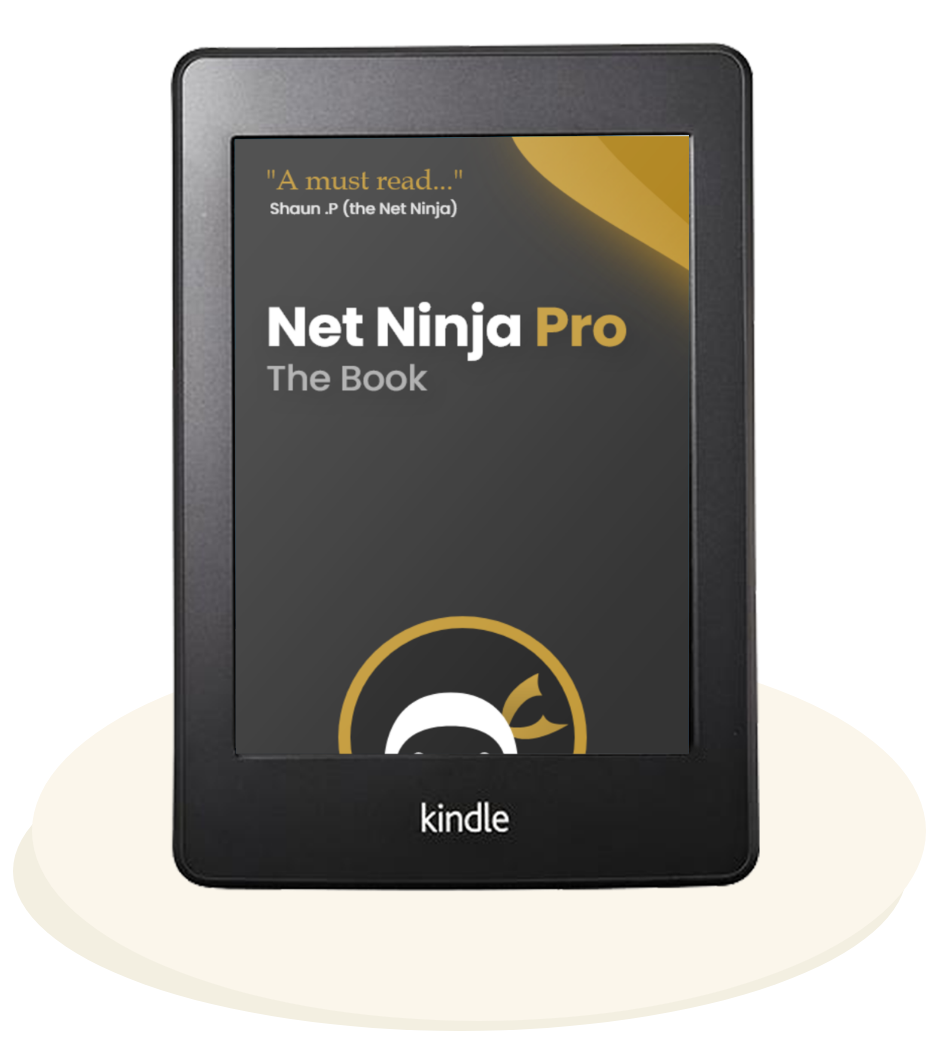
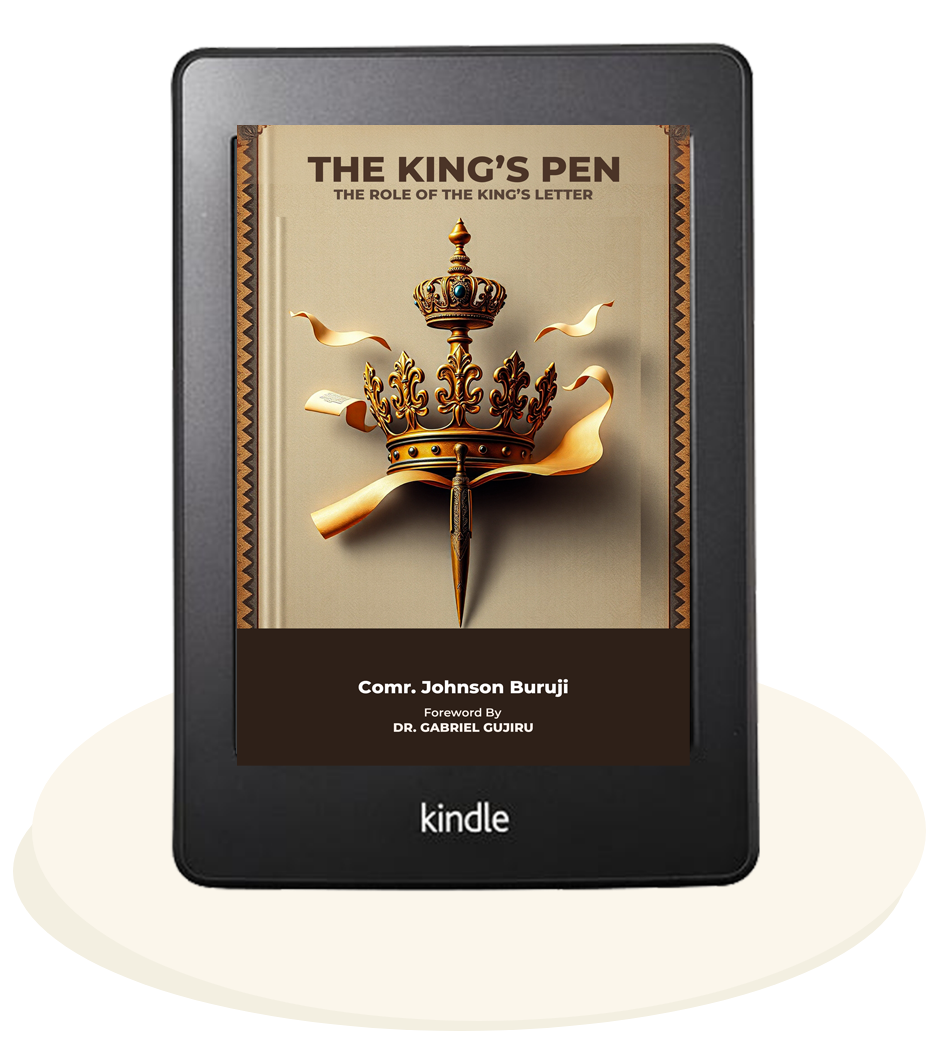
updated the books and color

Changed region(s): [[0.2473, 0.1225, 0.742, 0.7349]]

diff --git a/index.html b/index.html
@@ -23,7 +23,7 @@
         <a href="#intro" class="navbar-brand">
           <span class="fw-bold text-secondary">
             <i class="bi bi-book-half"></i>
-            Net Ninja Pro-the book
+            The King's Pen-the book
           </span>
         </a>
 
@@ -69,8 +69,8 @@
         <div class="row justify-content-center align-items-center">
           <div class="col-md-5 text-center text-md-start">
             <h1>
-              <div class="display-2">Black Belt</div>
-              <div class="display-5 text-muted">Your Coding Skills</div>
+              <div class="display-2">The King's Pen</div>
+              <div class="display-6">Understand the King's Letter</div>
             </h1>
             <p class="lead my-4 text-muted">
               Lorem, ipsum dolor sit amet consectetur adipisicing elit.
@@ -92,11 +92,11 @@
             <span
               class="tt"
               data-bs-placement="bottom"
-              title="Net Ninja Book cover">
+              title="The King's Pen Book cover">
               <img
                 src="assets/ebook-cover.png"
                 alt="Ebook Cover"
-                class="img-fluid" />
+                class="img-fluid ebook-cover w-100" />
             </span>
           </div>
         </div>

diff --git a/scss/main.scss b/scss/main.scss
@@ -1,17 +1,17 @@
 //custom variable
-$primary: #c29938;
-$light:#fbf5e5;
+$primary: #2e2018;
+$light: #fbf5e5;
 
 //import the function & varibales
 @import "../node_modules/bootstrap/scss/functions";
 @import "../node_modules/bootstrap/scss/variables";
 
-$custom-theme-colors:(
-    "altlight":#f2ebfa,
-    "altdark":#522192,
+$custom-theme-colors: (
+  "altlight": #f2ebfa,
+  "altdark": #522192,
 );
 
-$theme-colors: map-merge($custom-theme-colors, $theme-colors );
+$theme-colors: map-merge($custom-theme-colors, $theme-colors);
 
 //import bootstrap
-@import '../node_modules/bootstrap/scss/bootstrap.scss';
+@import "../node_modules/bootstrap/scss/bootstrap.scss";
